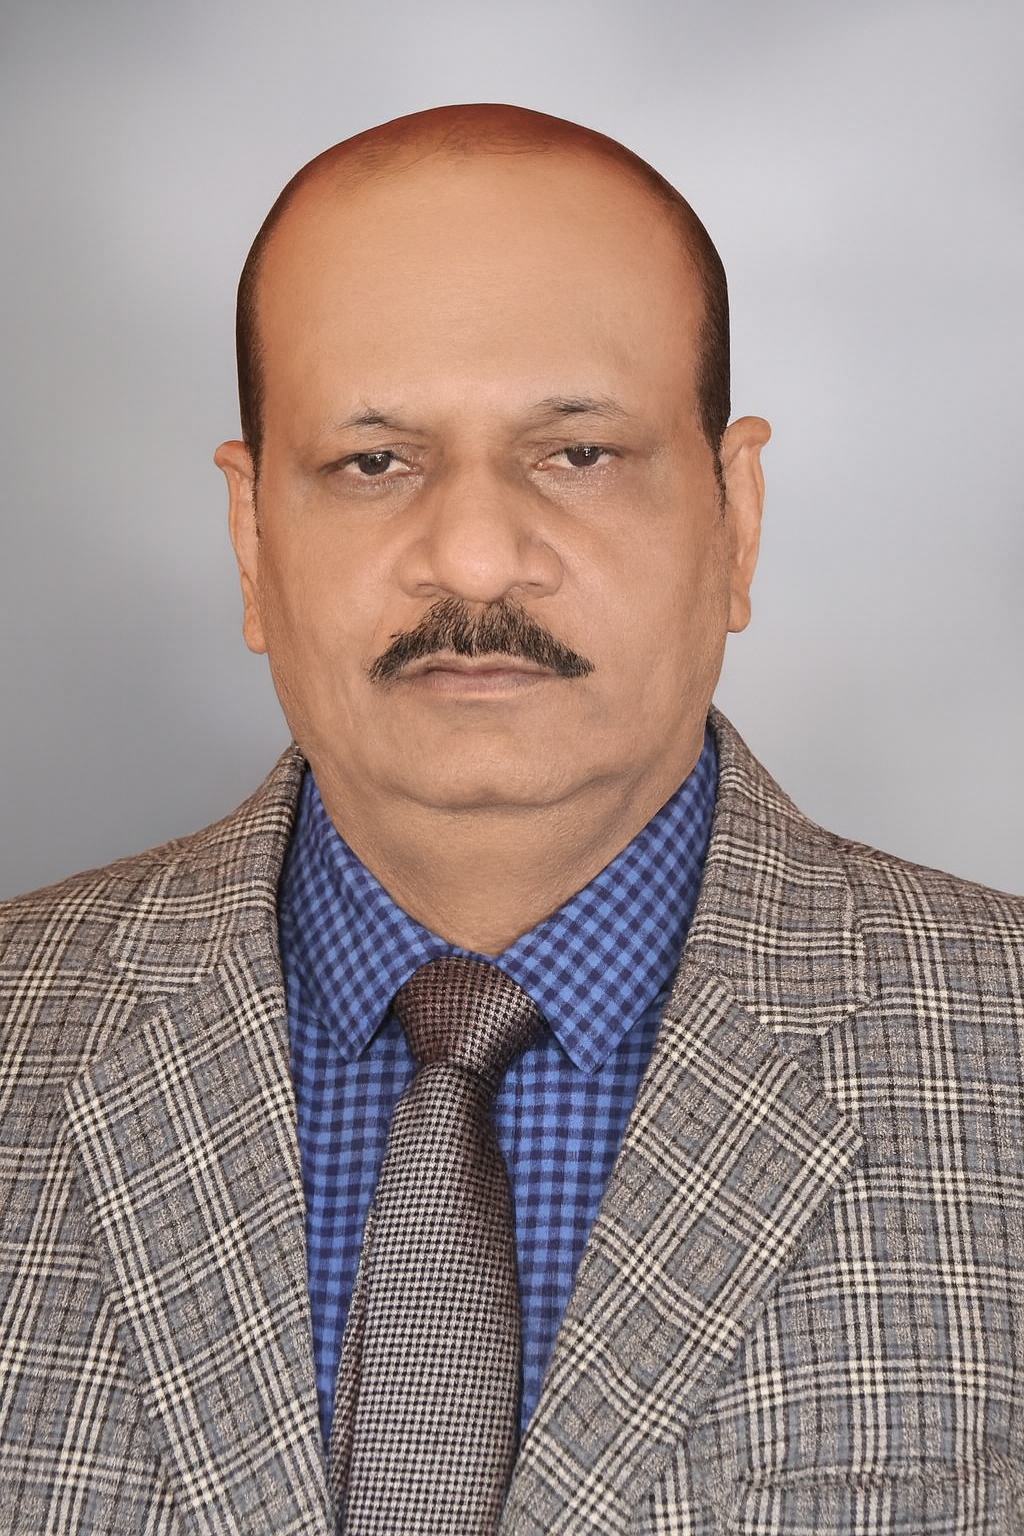
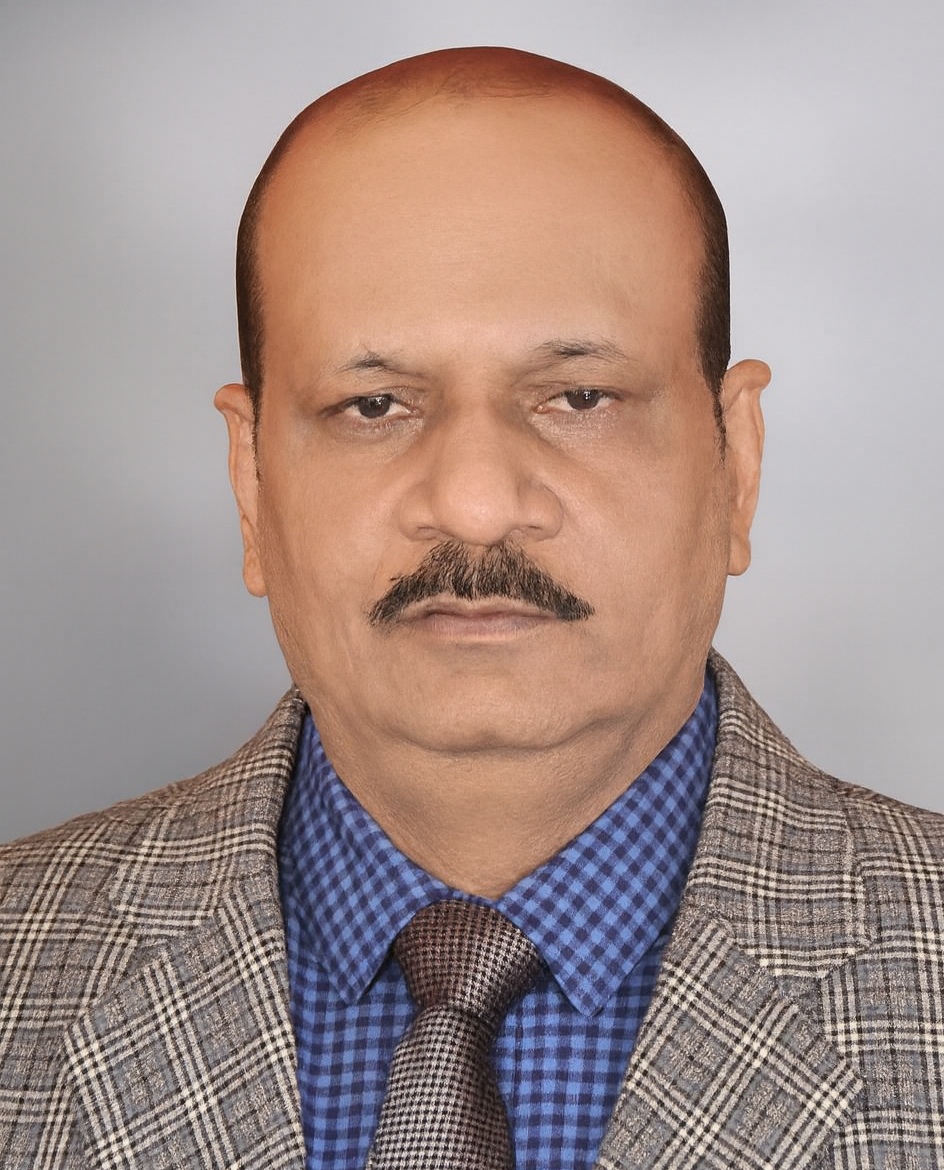
fix

diff --git a/app/aboutus/page.tsx b/app/aboutus/page.tsx
@@ -3,7 +3,7 @@ import Image from 'next/image';
 import Link from 'next/link';
 import Footer from '@/components/Footer';
 import Navbar from '@/components/Navbar';
-import { Globe2, Lightbulb, ShieldCheck, Sparkles, Users } from 'lucide-react';
+import { Globe2, Lightbulb, ShieldCheck, Sparkles } from 'lucide-react';
 
 export const metadata: Metadata = {
   title: 'About Sapphire Leadership Advisor',
@@ -17,18 +17,23 @@ export const metadata: Metadata = {
 const values = [
   {
     icon: Sparkles,
-    title: 'Excellence',
-    desc: 'Deep subject knowledge, strong classroom practice, and a clear focus on student progress.',
+    title: 'Ph.D. in Mathematics',
+    desc: 'Manipal University, reflecting a strong academic foundation and subject expertise.',
   },
   {
     icon: ShieldCheck,
-    title: 'Integrity',
-    desc: 'A steady commitment to ethical teaching, professional learning, and responsible leadership.',
+    title: 'Microsoft Certified Educator',
+    desc: 'A recognition of technology-enabled teaching and practical classroom application.',
   },
   {
     icon: Lightbulb,
-    title: 'Innovation',
-    desc: 'Research-informed teaching, thoughtful technology use, and practical educational improvement.',
+    title: 'Association Member',
+    desc: 'Member of The Association of Mathematics Teachers of India and active in professional learning.',
+  },
+  {
+    icon: Globe2,
+    title: 'Published & Patented',
+    desc: 'Research papers in national and international journals, along with innovation patents.',
   },
 ];
 
@@ -51,7 +56,7 @@ export default function AboutUsPage() {
               <br />
               <span className="text-primary-fixed">and educational growth.</span>
             </h1>
-            <p className="mx-auto mt-5 max-w-2xl text-[14px] leading-7 text-primary-fixed/80 md:text-[16px]">
+            <p className="mx-auto mt-5 max-w-2xl text-[14px] leading-7 text-white md:text-[16px]">
               Sapphire Leadership Advisor supports schools, educators, and
               leaders through strategic advisory, school improvement, teacher
               development, and leadership growth.
@@ -64,12 +69,10 @@ export default function AboutUsPage() {
                 Explore Advisory
               </Link>
               <Link
-                href="/images/Udyam%20Registration%20Certificate.pdf"
-                target="_blank"
-                rel="noopener noreferrer"
+                href="#company-details"
                 className="rounded-full border border-white/20 bg-white/10 px-6 py-3 text-[11px] font-semibold tracking-tight text-white"
               >
-                Udyam Certificate
+                Company Details
               </Link>
             </div>
           </div>
@@ -79,14 +82,13 @@ export default function AboutUsPage() {
           <div className="mx-auto max-w-container px-5 md:px-10">
             <div className="text-center">
               <h2 className="font-display text-[26px] font-semibold tracking-[-0.02em] text-ink md:text-[34px]">
-                Core values
+                Professional achievements
               </h2>
               <p className="mt-3 text-[13px] leading-6 text-ink-muted md:text-[14px]">
-                The principles that guide the way Sapphire Leadership Advisor
-                works with schools and leaders.
+                The academic milestones and recognitions of Dr. Sunil Kumawat.
               </p>
             </div>
-            <div className="mt-10 grid gap-6 md:grid-cols-3">
+            <div className="mt-10 grid gap-6 md:grid-cols-2 xl:grid-cols-4">
               {values.map((value) => {
                 const Icon = value.icon;
                 return (
@@ -130,13 +132,13 @@ export default function AboutUsPage() {
             </div>
 
             <div className="mt-10 grid gap-8 lg:grid-cols-[0.98fr_1.02fr] lg:items-center">
-              <div className="relative overflow-hidden rounded-[28px] border border-surface-variant bg-white shadow-sm">
+              <div className="relative mx-auto aspect-[2/3] w-full max-w-[340px] overflow-hidden rounded-[28px] shadow-sm lg:mx-0 lg:max-w-none">
                 <Image
                   src="/images/sunil.png"
                   alt="Dr. Sunil Kumawat"
-                  width={900}
-                  height={1100}
-                  className="h-[420px] w-full object-cover md:h-[560px]"
+                  fill
+                  sizes="(min-width: 1024px) 40vw, 100vw"
+                  className="object-cover"
                   priority
                 />
               </div>
@@ -162,84 +164,65 @@ export default function AboutUsPage() {
                     analysis, and school improvement.
                   </p>
                 </article>
-
               </div>
             </div>
           </div>
         </section>
 
-        <section className="py-16 md:py-24">
+        <section id="company-details" className="py-16 md:py-24">
           <div className="mx-auto grid max-w-container gap-12 px-5 md:grid-cols-[0.95fr_1.05fr] md:px-10">
             <div>
-                <h2 className="font-display text-[26px] font-semibold tracking-[-0.02em] text-ink md:text-[34px]">
-                Professional credentials
-                </h2>
+              <h2 className="font-display text-[26px] font-semibold tracking-[-0.02em] text-ink md:text-[34px]">
+                Company details
+              </h2>
               <p className="mt-3 max-w-lg text-[13px] leading-6 text-ink-muted md:text-[14px]">
-                A glance at the affiliations, publications, and recognitions
-                that support the advisory practice.
+                Sapphire Leadership Advisor is the company established by Dr.
+                Sunil Kumawat for strategic educational advisory and school
+                improvement support.
               </p>
-              <div className="mt-8 space-y-4">
-                {[
-                  ['Ph.D. in Mathematics', 'Manipal University'],
-                  ['Microsoft Certified Educator', 'Technology-enabled teaching'],
-                  ['Association Member', 'The Association of Mathematics Teachers of India'],
-                  ['Published & Patented', 'Research papers and innovation'],
-                ].map(([city, label], index) => (
-                  <div
-                    key={city}
-                    className={`flex items-center gap-4 rounded-xl bg-white p-5 ${index === 0 ? 'border-l-4 border-gold' : 'border border-surface-variant'} `}
-                  >
-                    <div className="text-primary">
-                      <Globe2 size={28} />
-                    </div>
-                    <div>
-                      <h3 className="font-display text-lg font-semibold text-ink">
-                        {city}
-                      </h3>
-                      <p className="text-[12px] text-ink-muted">{label}</p>
-                    </div>
+              <div className="mt-8 space-y-4 rounded-[24px] border border-surface-variant/50 bg-white p-7 shadow-sm md:p-8">
+                <div>
+                  <div className="text-[11px] font-semibold uppercase tracking-[0.16em] text-gold">
+                    SAPPHIRE LEADERSHIP ADVISOR
                   </div>
-                ))}
+                  <p className="mt-2 text-[13px] leading-6 text-ink-muted md:text-[14px]">
+                    Office: A-lI First Floor, Mall Road, Sector I, Vidhyadhar
+                    Nagar Jaipur, Rajasthan 302039
+                  </p>
+                </div>
+                <div className="space-y-3 border-t border-surface-variant pt-5 text-[13px] text-ink-muted">
+                  <p>MSME: UDYAM-RJ-17-0643701</p>
+                  <p>GST: 08AHXPK9737A2ZT</p>
+                </div>
+                <Link
+                  href="/images/Udyam%20Registration%20Certificate.pdf"
+                  target="_blank"
+                  rel="noopener noreferrer"
+                  className="inline-flex w-fit items-center justify-center rounded-full bg-primary px-5 py-3 text-[12px] font-semibold text-white transition-colors hover:bg-primary-2"
+                >
+                  View PDF
+                </Link>
               </div>
             </div>
 
             <div className="relative flex min-h-[560px] items-center justify-center overflow-hidden rounded-3xl bg-primary/5 p-8">
               <div className="absolute inset-0 opacity-10 bg-[radial-gradient(circle_at_center,_var(--tw-gradient-stops))] from-primary to-transparent" />
               <div className="glass relative flex h-full w-full flex-col overflow-hidden rounded-2xl p-6 text-center">
-                <div className="flex items-center justify-between gap-4">
-                  <div className="text-left">
+                <div className="flex h-full items-center justify-center p-6">
+                  <div className="max-w-md">
                     <div className="text-[11px] font-semibold uppercase tracking-[0.16em] text-primary/70">
-                      Udyam Registration
+                      Advisory Focus
                     </div>
-                    <h3 className="font-display text-2xl font-semibold text-primary">
-                      Certificate
+                    <h3 className="mt-3 font-display text-2xl font-semibold text-primary">
+                      Leadership, school improvement, and strategic advisory
                     </h3>
+                    <p className="mt-4 text-[13px] leading-6 text-ink-muted">
+                      Sapphire Leadership Advisor supports schools through
+                      academic planning, leadership development, and
+                      improvement frameworks that are practical and measurable.
+                    </p>
                   </div>
-                  <Link
-                    href="/images/Udyam%20Registration%20Certificate.pdf"
-                    target="_blank"
-                    rel="noopener noreferrer"
-                    className="rounded-full bg-primary px-4 py-2 text-[11px] font-semibold text-white"
-                  >
-                    Open PDF
-                  </Link>
                 </div>
-                <object
-                  data="/images/Udyam%20Registration%20Certificate.pdf"
-                  type="application/pdf"
-                  className="mt-5 h-[460px] w-full rounded-xl border border-surface-variant bg-white"
-                >
-                  <div className="flex h-full items-center justify-center p-6">
-                    <div>
-                      <p className="font-semibold text-primary">
-                        PDF preview unavailable in this browser.
-                      </p>
-                      <p className="mt-2 text-[13px] text-ink-muted">
-                        Open the certificate using the link above.
-                      </p>
-                    </div>
-                  </div>
-                </object>
               </div>
             </div>
           </div>
@@ -265,12 +248,10 @@ export default function AboutUsPage() {
                     Contact Us
                   </Link>
                   <Link
-                    href="/images/Udyam%20Registration%20Certificate.pdf"
-                    target="_blank"
-                    rel="noopener noreferrer"
+                    href="#company-details"
                     className="rounded-full border border-white/20 bg-white/10 px-10 py-5 text-[11px] font-semibold tracking-tight text-white"
                   >
-                    View Certificate
+                    View Company Details
                   </Link>
                 </div>
               </div>

diff --git a/app/contact/page.tsx b/app/contact/page.tsx
@@ -1,5 +1,6 @@
 import type { Metadata } from 'next';
 import Image from 'next/image';
+import Link from 'next/link';
 import Footer from '@/components/Footer';
 import Navbar from '@/components/Navbar';
 import {
@@ -35,6 +36,7 @@ type ContactCard =
       tag: string;
       address: string;
       details: string[];
+      certificateHref?: string;
     };
 
 const contactCards: ContactCard[] = [
@@ -61,6 +63,7 @@ const contactCards: ContactCard[] = [
       'MSME: UDYAM-RJ-17-0643701',
       'GST: 08AHXPK9737A2ZT',
     ],
+    certificateHref: '/images/Udyam%20Registration%20Certificate.pdf',
   },
 ];
 
@@ -128,6 +131,16 @@ export default function ContactPage() {
                           <span>{item}</span>
                         </p>
                       ))}
+                      {'certificateHref' in office && office.certificateHref ? (
+                        <Link
+                          href={office.certificateHref}
+                          target="_blank"
+                          rel="noopener noreferrer"
+                          className="mt-4 inline-flex items-center justify-center rounded-full bg-primary px-5 py-2.5 text-[12px] font-semibold text-white transition-colors hover:bg-primary-2"
+                        >
+                          View PDF
+                        </Link>
+                      ) : null}
                     </div>
                   )}
                 </article>

diff --git a/components/ServiceModules.tsx b/components/ServiceModules.tsx
@@ -12,7 +12,6 @@ const modules = [
     description:
       'Coaching for senior leaders focused on vision, decision-making, team alignment, and sustained school-wide improvement.',
     image: '/images/leadershipdevelopment.jpeg',
-    accent: 'Leadership',
     href: '/consultation',
     cta: 'Book Consultation',
   },
@@ -21,7 +20,6 @@ const modules = [
     description:
       'Practical advisory to strengthen academic systems, quality assurance, and the routines that shape school excellence.',
     image: '/images/schoolconsultancy.jpeg',
-    accent: 'Quality',
     href: '/schools',
     cta: 'Explore Schools',
   },
@@ -30,7 +28,6 @@ const modules = [
     description:
       'Professional learning journeys that build classroom confidence, instructional skill, and a stronger culture of collaboration.',
     image: '/images/teacherpl.jpeg',
-    accent: 'Learning',
     href: '/teacherspage',
     cta: 'Explore Teachers',
   },
@@ -39,7 +36,6 @@ const modules = [
     description:
       'Programs that connect academic purpose with future readiness, helping students grow with clarity, confidence, and direction.',
     image: '/images/studentsuccess.jpeg',
-    accent: 'Future',
     href: '/studentpage',
     cta: 'Explore Students',
   },
@@ -73,9 +69,6 @@ export default function ServiceModules() {
                 className="h-full w-full object-cover transition-transform duration-500 group-hover:scale-110"
               />
               <div className="absolute inset-0 bg-gradient-to-t from-navy/60 via-navy/10 to-transparent" />
-              <div className="absolute bottom-4 left-4 rounded-full bg-white/90 px-3 py-1 text-[10px] font-bold uppercase tracking-[0.18em] text-primary">
-                {m.accent}
-              </div>
             </div>
 
             <div className="flex flex-1 flex-col p-7 md:p-8">

diff --git a/app/studentpage/page.tsx b/app/studentpage/page.tsx
@@ -222,7 +222,7 @@ export default function StudentPage() {
             <h2 className="font-display text-4xl font-semibold text-white md:text-6xl">
               Ready to define your future?
             </h2>
-            <p className="mx-auto mt-6 max-w-2xl text-[14px] leading-7 text-primary-fixed md:text-[16px]">
+            <p className="mx-auto mt-6 max-w-2xl text-[14px] leading-7 text-white md:text-[16px]">
               Join the ranks of Sapphire scholars who are leading industries
               across the globe.
             </p>

diff --git a/components/Footer.tsx b/components/Footer.tsx
@@ -59,7 +59,7 @@ export default function Footer() {
 
         <div className="space-y-3 rounded-[20px] border border-surface-variant/45 bg-surface-low p-5">
           <div className="text-[10px] font-semibold uppercase tracking-[0.16em] text-primary whitespace-nowrap">
-            Curated Intelligence for Leaders
+            Subscribe to Newsletter
           </div>
           <p className="text-[12px] leading-6 text-ink-muted">
             A concise monthly brief for executives and board members on the